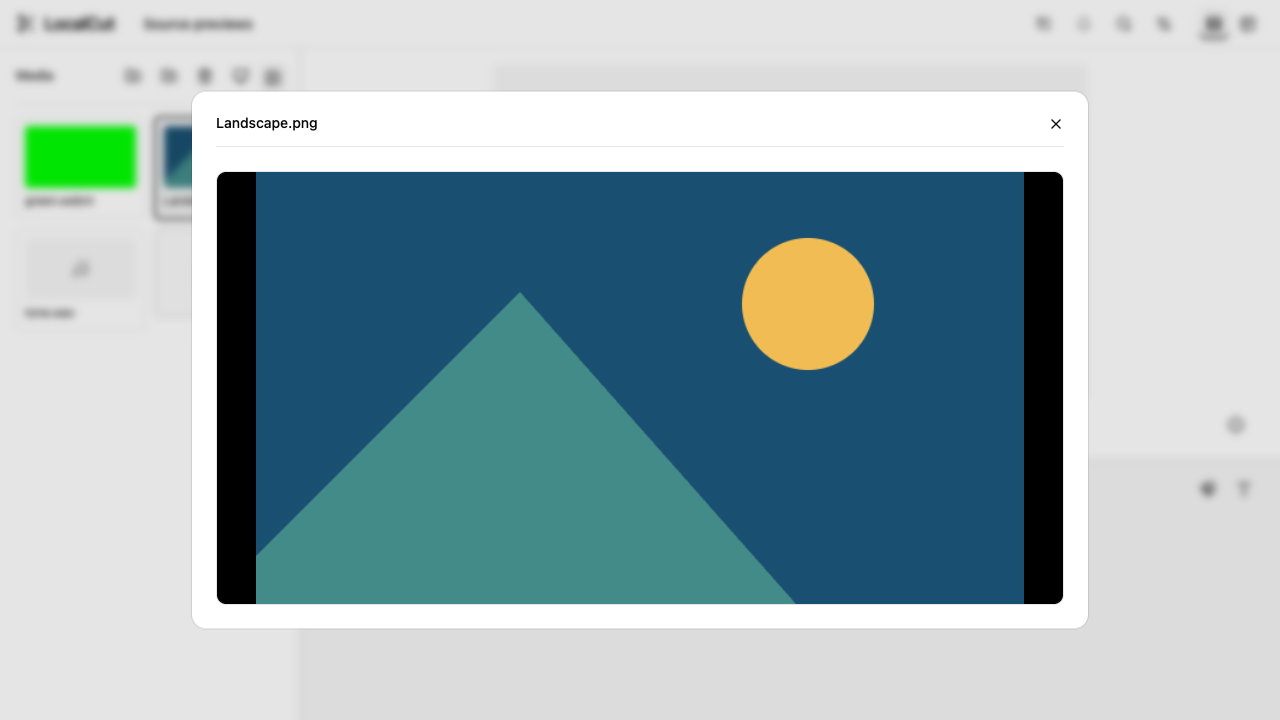
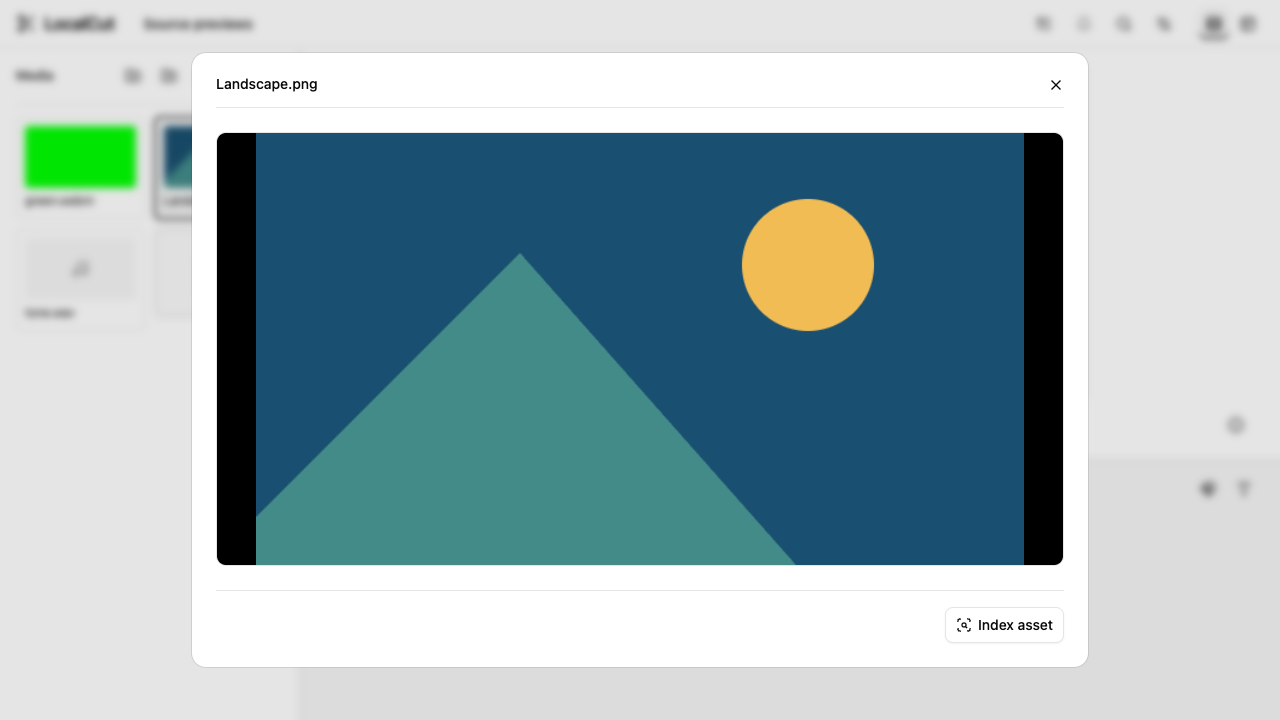
fix: preserve asset access and refresh invalidated index summaries

Changed region(s): [[0.125, 0.3667, 0.875, 0.9472], [0.125, 0.0611, 0.875, 0.2444], [0.5625, 0.275, 0.6875, 0.5194]]

diff --git a/tests/browser/workspace-asset-viewer.spec.ts b/tests/browser/workspace-asset-viewer.spec.ts
@@ -181,6 +181,12 @@ for (const base of behaviorBases) {
     await expect(page.getByRole('dialog')).toHaveCount(0);
     await expect(card('Landscape.png')).toHaveAttribute('aria-pressed', 'true');
     await expect(card('tone.wav')).toHaveAttribute('aria-pressed', 'true');
+    const openActions = async (name: string) => {
+      await card(name).hover();
+      await page
+        .getByRole('button', { name: `Actions for ${name}`, exact: true })
+        .click();
+    };
     // Both entry points share the same job. Hold native analysis at its lock
     // boundary so progress, duplicate suppression and cancellation are observed.
     const audioId = await card('tone.wav').evaluate(
@@ -207,9 +213,7 @@ for (const base of behaviorBases) {
       await ready;
     }, audioId);
     try {
-      await page
-        .getByRole('button', { name: 'Actions for tone.wav', exact: true })
-        .click();
+      await openActions('tone.wav');
       await page
         .getByRole('menuitem', { name: 'Index asset', exact: true })
         .click();
@@ -221,9 +225,7 @@ for (const base of behaviorBases) {
         }),
       ).toBeVisible();
       await page.keyboard.press('Escape');
-      await page
-        .getByRole('button', { name: 'Actions for tone.wav', exact: true })
-        .click();
+      await openActions('tone.wav');
       await expect(
         page.getByRole('menuitem', { name: 'Indexing…', exact: true }),
       ).toBeDisabled();
@@ -256,9 +258,7 @@ for (const base of behaviorBases) {
     );
     await page.screenshot({ path: info.outputPath('asset-viewer-audio.png') });
     await page.keyboard.press('Escape');
-    await page
-      .getByRole('button', { name: 'Actions for Landscape.png', exact: true })
-      .click();
+    await openActions('Landscape.png');
     await page
       .getByRole('menuitem', { name: 'Index asset', exact: true })
       .click();
@@ -353,10 +353,8 @@ for (const base of behaviorBases) {
     for (const result of indexes.results) {
       expect(result.count).toBe(1);
       expect(result.status).toBe('analyzed');
-      expect(result.frames).toBe(
-        result.name === 'tone.wav' ? 0 : expect.any(Number),
-      );
-      if (result.name !== 'tone.wav') expect(result.frames).toBeGreaterThan(0);
+      if (result.name === 'tone.wav') expect(result.frames).toBe(0);
+      else expect(result.frames).toBeGreaterThan(0);
     }
     await catalogAndReturn();
     await card('tone.wav').click();
@@ -431,5 +429,30 @@ for (const base of behaviorBases) {
         });
       await page.keyboard.press('Escape');
     }
+    // Relinking invalidates the retained index; do not keep the former success.
+    await page.evaluate(async (base) => {
+      const { createEditor } = (await import(
+        base + 'editor.js'
+      )) as typeof import('../../src/editor');
+      const editor = await createEditor();
+      try {
+        const projectId = location.hash.split('/')[2]!;
+        const entry = (
+          await editor.library.forProject(projectId).list()
+        ).entries.find((item) => item.name === 'green.webm')!;
+        const original = await editor.library
+          .forProject(projectId)
+          .file(entry.id);
+        await editor.assets.relink(
+          entry.assetId!,
+          new File([original], 'green.webm', { type: 'video/webm' }),
+        ).completion;
+      } finally {
+        await editor.dispose();
+      }
+    }, base);
+    await card('green.webm').click();
+    await expect(dialog('green.webm').getByRole('status')).toBeEmpty();
+    await page.keyboard.press('Escape');
   });
 }

diff --git a/src/components/ui/tooltip.tsx b/src/components/ui/tooltip.tsx
@@ -12,11 +12,13 @@ export function Tooltip({
   children,
   content,
   toggleOnClick = false,
+  disableHoverablePopup = false,
 }: {
   children: ReactElement;
   content: ReactNode;
   /** Opt in for help buttons that must also disclose their text on touch. */
   toggleOnClick?: boolean;
+  disableHoverablePopup?: boolean;
 }) {
   const id = useId();
   const [open, setOpen] = useState(false);
@@ -30,7 +32,11 @@ export function Tooltip({
     };
   }, [content]);
   return (
-    <TooltipPrimitive.Root open={open} onOpenChange={setOpen}>
+    <TooltipPrimitive.Root
+      open={open}
+      onOpenChange={setOpen}
+      disableHoverablePopup={disableHoverablePopup}
+    >
       <TooltipPrimitive.Trigger
         ref={trigger}
         render={children}

diff --git a/src/workspace/useAssetIndexing.ts b/src/workspace/useAssetIndexing.ts
@@ -89,6 +89,7 @@ export function useAssetIndexing(
             stage: 'Indexed',
             result: resultSummary(latest),
           });
+        else publish(scope, assetId, { running: false, stage: '' });
       } catch (error) {
         if (current.current === scope)
           showErrorToast(error, 'Could not read the saved index.');

diff --git a/src/workspace/MediaLibrary.tsx b/src/workspace/MediaLibrary.tsx
@@ -659,6 +659,7 @@ function MediaAssetCard({
       data-selected={selected}
     >
       <Tooltip
+        disableHoverablePopup
         content={
           <>
             <div>{asset.name}</div>

diff --git a/docs/workspace.md b/docs/workspace.md
@@ -57,7 +57,7 @@ Legacy Download project backup / Import project backup controls retain the origi
 
 Click a Media asset thumbnail or name to view the original image or play its video/audio with playback and seek controls. Enter and Space open the focused card. Escape or Close returns focus to the card and stops playback; temporary preview URLs are released. Navigating away also closes the viewer, including while it is loading. Viewing pauses timeline playback and leaves the project unchanged, including historical versions. Missing or unsupported sources show recovery guidance. Modifier-click selection and thumbnail dragging retain their existing behavior. See the [desktop source viewer](screenshots/asset-viewer.png) and [mobile viewer](screenshots/asset-viewer-mobile.png).
 
-Use **Index asset** in the asset actions menu or viewer to analyze images, video frames/scenes and audio windows locally. Both controls share progress and prevent another start while that asset is indexing. The viewer offers Cancel indexing and a saved result summary; close and reopen it, including after reload, to inspect the latest valid result. Closing the viewer leaves its task running in Task queue. Historical views and missing sources disable new indexing. Failures remain actionable and can be retried. This control does not transcribe speech or add timeline clips.
+Use **Index asset** in the asset actions menu or viewer to analyze images, video frames/scenes and audio windows locally. Both controls share progress and prevent another start while that asset is indexing. The viewer offers Cancel indexing and a saved result summary; close and reopen it, including after reload, to inspect the latest valid result. Closing the viewer leaves its task running in Task queue. Historical views and missing sources disable new indexing. Failures remain actionable and can be retried. This control does not transcribe speech or add timeline clips. See the [video indexing control](screenshots/asset-viewer-video.png), [audio viewer](screenshots/asset-viewer-audio.png) and [mobile audio result](screenshots/asset-viewer-audio-mobile.png).
 
 ### Screen recording
 
